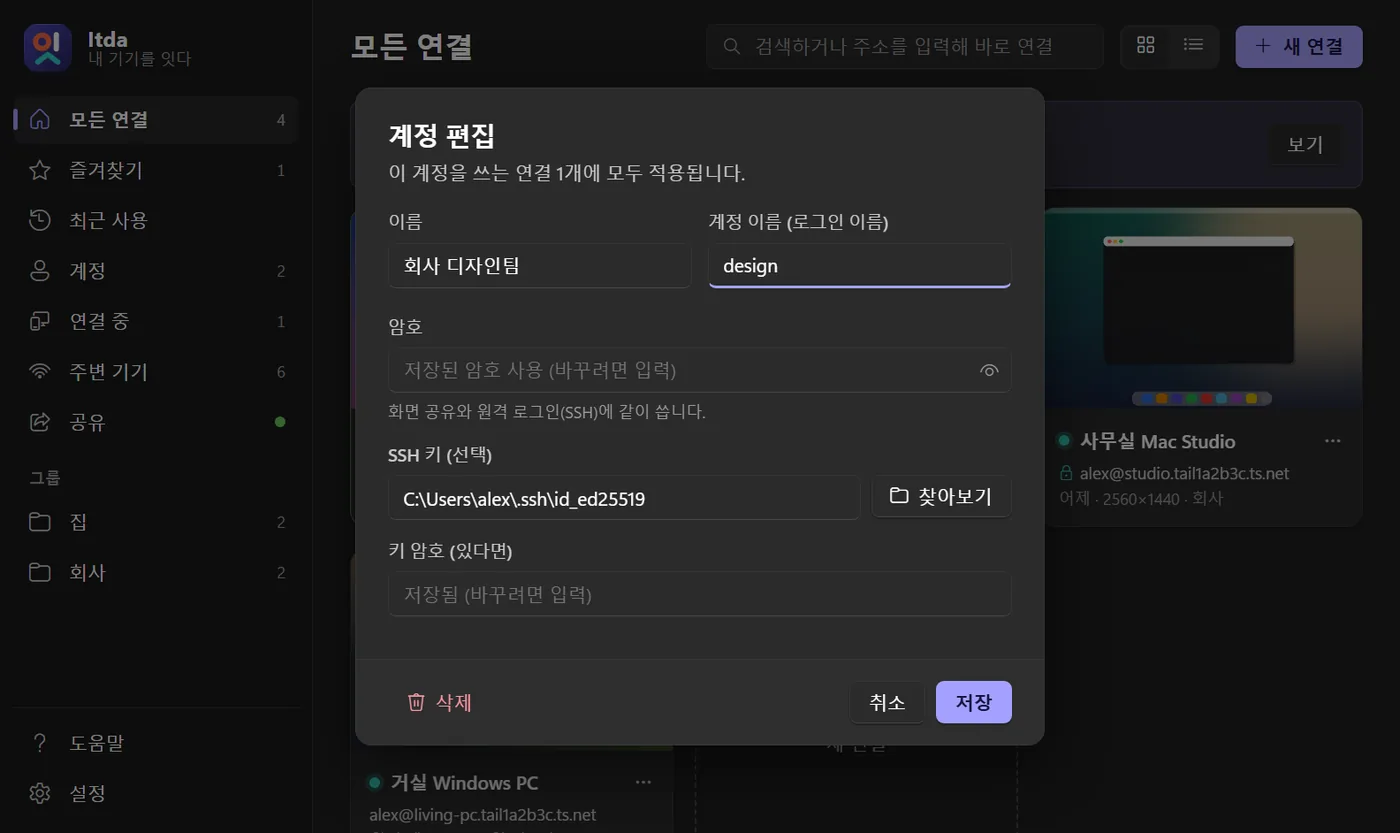
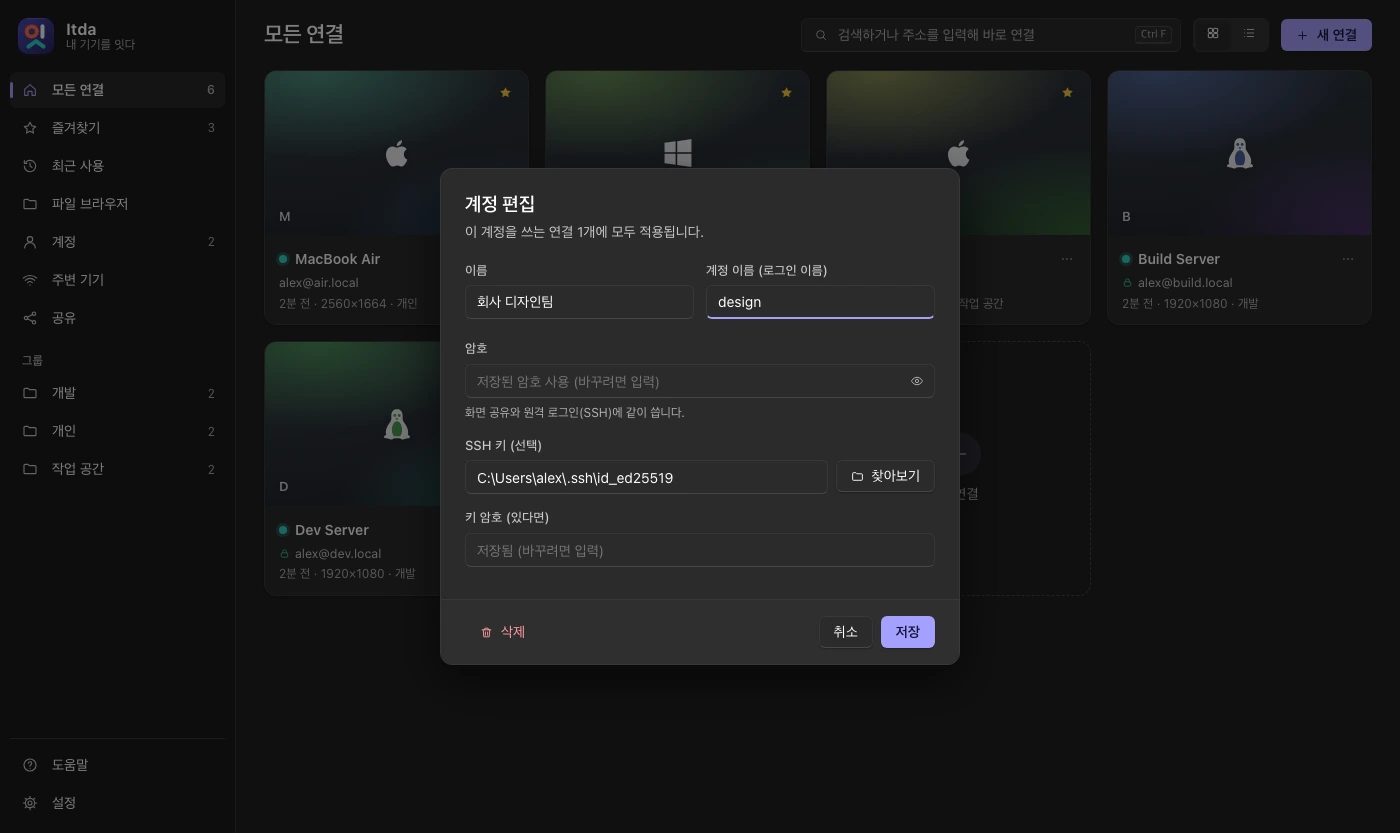
feat(help): English help-center screenshots
The help center showed Korean screenshots in English. scripts/site-capture.mjs
now takes CAPTURE_LANG=en (fixtures in English, en-US locale) and
--help-images writes web/help/en/; help.js picks those when the app is in
English. phone-view.webp has no words and serves both languages.

The three hand-made images are captured too (account editor, phone sign-in,
key sheet over phone-view), so the Korean ones are refreshed: the sign-in
text in the old one predated the Share page. The capture server also serves
the viewer's i18n.js and locales, which the phone captures needed since the
interface became bilingual. The unused phone-edit image is dropped.

Net app size: about +870 KB (10 English images, -28 KB phone-edit).

diff --git a/web/help.js b/web/help.js
@@ -123,9 +123,13 @@ function iosShare() {
 
 // ---------------------------------------------------------------- real screenshots
 
+// English shots in web/help/en/ (scripts/site-capture.mjs --help-images); phone-view has no words.
+const EN_SHOT = new Set(['itda-home', 'itda-nearby', 'itda-accounts', 'itda-account-edit', 'itda-edit', 'itda-share', 'itda-web', 'phone-login', 'phone-list', 'phone-keys']);
+const shotSrc = (name) => `help/${I18N.lang === 'en' && EN_SHOT.has(name) ? 'en/' : ''}${name}.webp`;
+
 function shot(name, caption, kind = 'desk') {
   const [w, h] = name === 'phone-list' ? [780, 1440] : kind === 'phone' ? [780, 1215] : [1400, 834];
-  return `<figure class="shot ${kind}"><img ${name === 'phone-list' ? 'style="aspect-ratio:780 / 1440" ' : ''}src="help/${name}.webp" alt="${esc(caption)}" width="${w}" height="${h}" decoding="async"><figcaption>${caption}</figcaption></figure>`;
+  return `<figure class="shot ${kind}"><img ${name === 'phone-list' ? 'style="aspect-ratio:780 / 1440" ' : ''}src="${shotSrc(name)}" alt="${esc(caption)}" width="${w}" height="${h}" decoding="async"><figcaption>${caption}</figcaption></figure>`;
 }
 
 function step(n, title, body, figure = '') {

diff --git a/src/home.rs b/src/home.rs
@@ -43,9 +43,19 @@ const HELP_IMG: &[(&str, &[u8])] = &[
     ("itda-web", include_bytes!("../web/help/itda-web.webp")),
     ("phone-login", include_bytes!("../web/help/phone-login.webp")),
     ("phone-list", include_bytes!("../web/help/phone-list.webp")),
-    ("phone-edit", include_bytes!("../web/help/phone-edit.webp")),
     ("phone-view", include_bytes!("../web/help/phone-view.webp")),
     ("phone-keys", include_bytes!("../web/help/phone-keys.webp")),
+    // English (help.js asks for these when the app is in English).
+    ("en/itda-home", include_bytes!("../web/help/en/itda-home.webp")),
+    ("en/itda-nearby", include_bytes!("../web/help/en/itda-nearby.webp")),
+    ("en/itda-accounts", include_bytes!("../web/help/en/itda-accounts.webp")),
+    ("en/itda-account-edit", include_bytes!("../web/help/en/itda-account-edit.webp")),
+    ("en/itda-edit", include_bytes!("../web/help/en/itda-edit.webp")),
+    ("en/itda-share", include_bytes!("../web/help/en/itda-share.webp")),
+    ("en/itda-web", include_bytes!("../web/help/en/itda-web.webp")),
+    ("en/phone-login", include_bytes!("../web/help/en/phone-login.webp")),
+    ("en/phone-list", include_bytes!("../web/help/en/phone-list.webp")),
+    ("en/phone-keys", include_bytes!("../web/help/en/phone-keys.webp")),
 ];
 
 /// Messages from worker threads, drained on the UI thread.

diff --git a/docs/SCREENSHOTS.md b/docs/SCREENSHOTS.md
@@ -12,11 +12,15 @@ Install the Playwright dependencies described in [CONTRIBUTING.md](../CONTRIBUTI
 node scripts/site-capture.mjs
 # Also refresh the shared app-help images (requires cwebp):
 node scripts/site-capture.mjs --help-images
+# The same in English: help images into web/help/en/ (site captures go to a scratch folder):
+CAPTURE_LANG=en node scripts/site-capture.mjs --help-images
 ```
+
+The help center shows `web/help/en/` images when the app is in English. `phone-view.webp` has no words and serves both languages; it is also the remote screen behind the captured key sheet (`phone-keys`).
 
 `PLAYWRIGHT` can point to an existing Playwright `index.mjs`, `CHROMIUM` to a browser executable, and `CAPTURE_DIR` to an alternative output directory. The script checks that nearby devices are present, columns retain ancestors, gallery preview loads and the Windows toolbar icon is sized correctly. It generates light/dark images, whole-window overviews at 2× density, readable file details, mobile variants and the social preview. Keep overview images uncropped; use the existing responsive detail crops where the landing page needs readable controls on a small screen.
 
-The current capture set was refreshed on 2026-10-24 from the product frontend at `03d832b7` on `main`, including the accessibility contrast and file-navigation updates. Re-running the capture on 2026-11-10 at v1.0.22 produced identical images. The seven help-center images use the same capture set. This records source provenance, not an installed or released build. Screenshots omit the app version so a docs-only or release version bump does not make otherwise current UI images obsolete. Recreate them after changes to tabs, commands, navigation, device cards, account editing or sharing. Do not label fictional data as a live connection or use captures as proof of native transfer/permission behavior.
+The current capture set was refreshed on 2026-10-24 from the product frontend at `03d832b7` on `main`, including the accessibility contrast and file-navigation updates. Re-running the capture on 2026-11-10 at v1.0.22 produced identical images. The help-center images use the same capture set, plus the account editor, the phone sign-in and the key sheet (2026-11-12, Korean and English). This records source provenance, not an installed or released build. Screenshots omit the app version so a docs-only or release version bump does not make otherwise current UI images obsolete. Recreate them after changes to tabs, commands, navigation, device cards, account editing or sharing. Do not label fictional data as a live connection or use captures as proof of native transfer/permission behavior.
 
 ## Recreate the film
 
